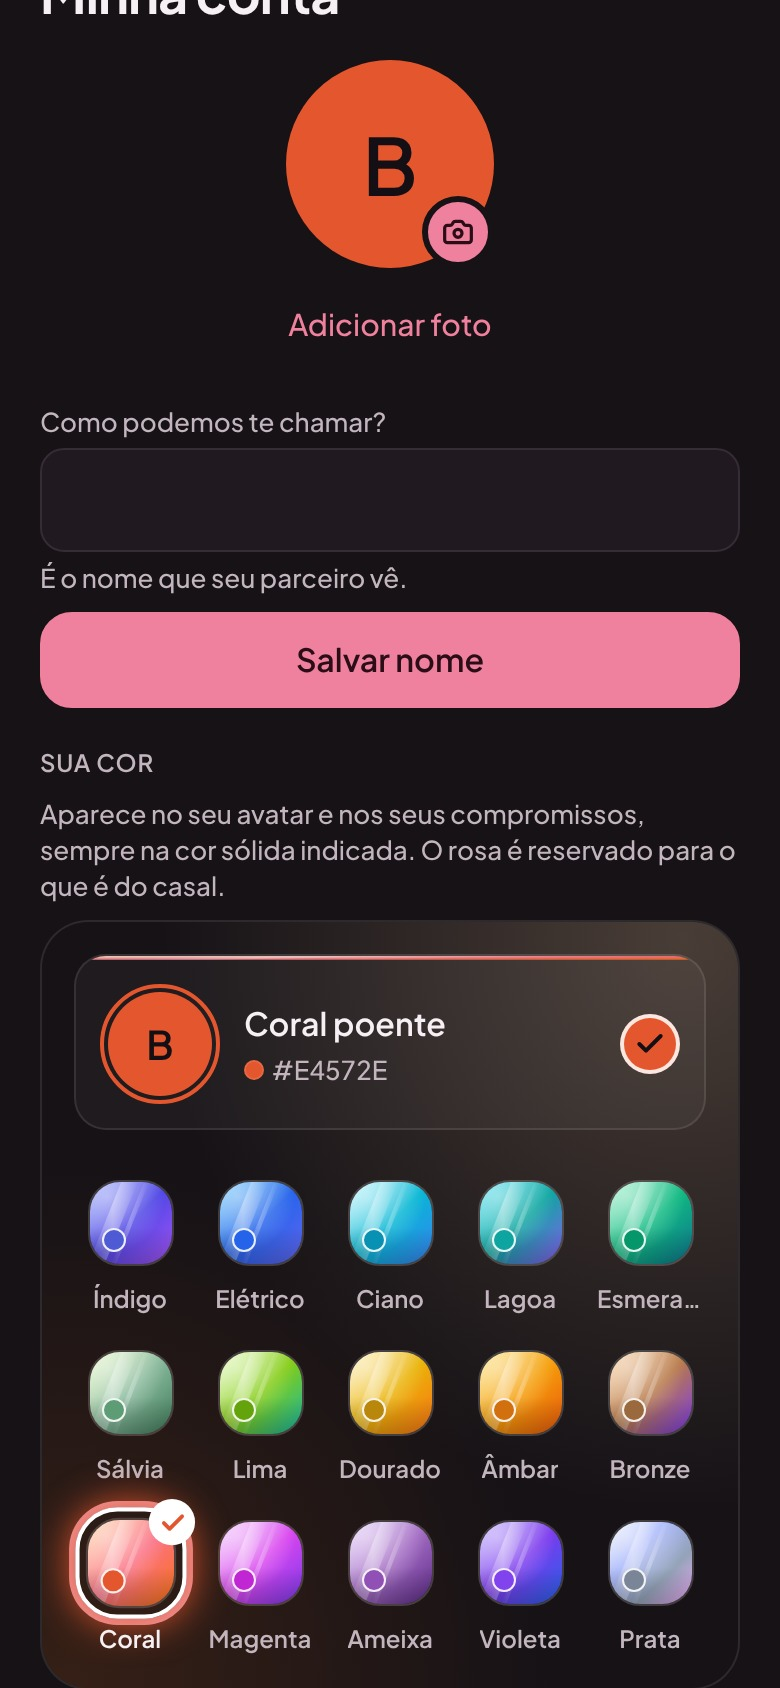
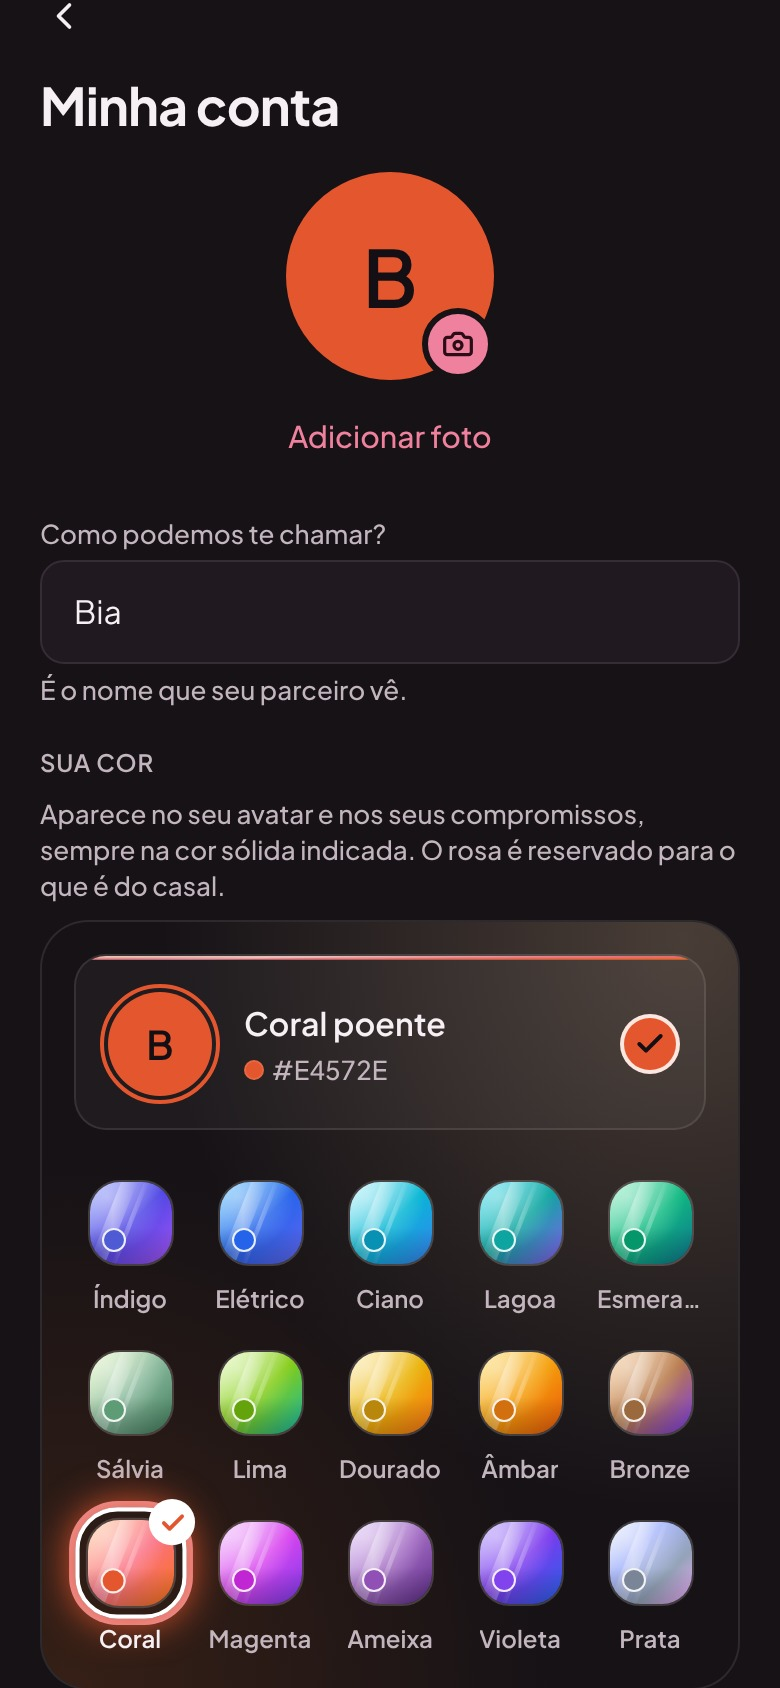
Vídeo: telas da conta pelo caminho normal do app (nome preenchido) e finalização do MP4
- 06-conta.js recaptura Minha conta via Nós → Minha conta
- finalize.sh: cor yuv420p, limitador de áudio em -1 dBTP e faststart
- ONDE-PAREI registra o vídeo e o build preview de 21/10

Claude-Session: https://claude.ai/code/session_01QoiNNMSAtvZRwGZfTYyW6s

Changed region(s): [[0.0308, 0.3081, 0.9538, 0.4313], [0.0615, 0.0, 0.6462, 0.2773]]

diff --git a/marketing/video/capture/06-conta.js b/marketing/video/capture/06-conta.js
@@ -1,0 +1,49 @@
+// Etapa 6: "Minha conta" aberta pelo caminho normal (Nós → Minha conta), com o nome já
+// preenchido: sua cor (antes/depois) e foto de perfil. Atualiza a posição do toque no Coral.
+// Antes, volte o perfil da Bia ao estado inicial:
+//   update public.profiles set avatar_color = 'indigo', avatar_path = null where id = <Bia>;
+const fs = require('node:fs');
+const path = require('node:path');
+const { BASE, PEOPLE, open, shot, step, signIn } = require('./lib');
+
+(async () => {
+  const { context, page } = await open('bia');
+  await signIn(page, PEOPLE.bia);
+  const tapsFile = path.join(__dirname, '../src/taps.json');
+  const taps = JSON.parse(fs.readFileSync(tapsFile, 'utf8'));
+
+  await step('minha conta: sua cor', async () => {
+    await page.goto(BASE, { waitUntil: 'networkidle' });
+    await page.waitForTimeout(2500);
+    await page.getByTestId('tab-us').click();
+    await page.waitForTimeout(1200);
+    await page.getByText('Minha conta', { exact: true }).click();
+    await page.getByTestId('prism-color-picker').waitFor();
+    await page.waitForTimeout(1200);
+    await page.getByTestId('prism-color-picker').scrollIntoViewIfNeeded();
+    await shot(page, '40-cor-antes');
+    const b = await page.getByTestId('color-coral').boundingBox();
+    taps.corCoral = [Math.round(b.x + b.width / 2), Math.round(b.y + b.height / 2)];
+    await page.getByTestId('color-coral').click();
+    await shot(page, '40-cor-depois', { wait: 1500 });
+  });
+
+  await step('minha conta: foto de perfil', async () => {
+    await page.evaluate(() => document.querySelectorAll('*').forEach((el) => el.scrollTop && (el.scrollTop = 0)));
+    await page.waitForTimeout(600);
+    await page.getByTestId('account-avatar').click();
+    await shot(page, '45-foto-opcoes');
+    const chooser = page.waitForEvent('filechooser', { timeout: 8000 });
+    await page.getByTestId('avatar-pick-library').click();
+    await (await chooser).setFiles(path.join(__dirname, 'foto-ficticia.jpg'));
+    await page.waitForTimeout(2500);
+    await shot(page, '46-foto-recorte');
+    await page.getByText('Usar esta foto').click();
+    await page.waitForTimeout(3500);
+    await shot(page, '47-foto-pronta');
+  });
+
+  fs.writeFileSync(tapsFile, JSON.stringify(taps, null, 2) + '\n');
+  console.log('corCoral', taps.corCoral);
+  await context.close();
+})();

diff --git a/docs/ONDE-PAREI.md b/docs/ONDE-PAREI.md
@@ -13,7 +13,9 @@
   2. **Aba Finanças**: contas fixas do casal ou privadas, com lembrete e "marcar como paga".
   3. **Foto de perfil**: escolher, ajustar (zoom e enquadramento) e enviar; bucket privado.
   4. **Seletor de cor prismático** (21/10): 15 opções; degradê só no seletor, cor sólida no
-     avatar e nos compromissos. Testado no web (Supabase local), ainda não no celular.
+     avatar e nos compromissos. Testado no web; build `preview` de 21/10 pronto para o celular.
+  5. **Vídeo de apresentação** (21/10): `marketing/video` (Remotion). Principal 16:9 (62 s),
+     vertical 9:16 e demonstração completa (2 min 14 s). Ver `marketing/video/README.md`.
 - Ainda **não testado no celular**: só no navegador, com dados de teste.
 - 20/10: o TST tinha pausado (7 dias sem uso) e foi reativado. 21/10: as 11 migrations estão
   aplicadas no TST (inclusive a das cores).

diff --git a/marketing/video/README.md b/marketing/video/README.md
@@ -33,7 +33,8 @@ O Remotion usa o `chrome-headless-shell` indicado em `remotion.config.ts` (ou em
      o código de confirmação é lido do Mailpit local);
    - `docker exec -i supabase_db_agendacasal psql -U postgres < seed.sql` (compromissos, datas e contas);
    - `node 02-tour.js`, `node 03-ajustes.js`, `node 04-tema-claro.js` (telas) e `node 05-posicoes.js`
-     (posições reais dos botões para os toques animados → `src/taps.json`).
+     (posições reais dos botões para os toques animados → `src/taps.json`);
+   - `node 06-conta.js` ("Minha conta" aberta pelo caminho normal, com o nome preenchido: cor e foto).
 
 Nada disso toca no banco de teste (TST) ou de produção.
 
